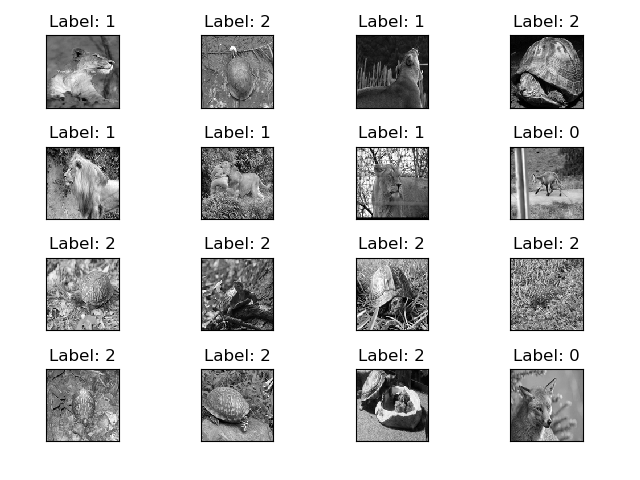
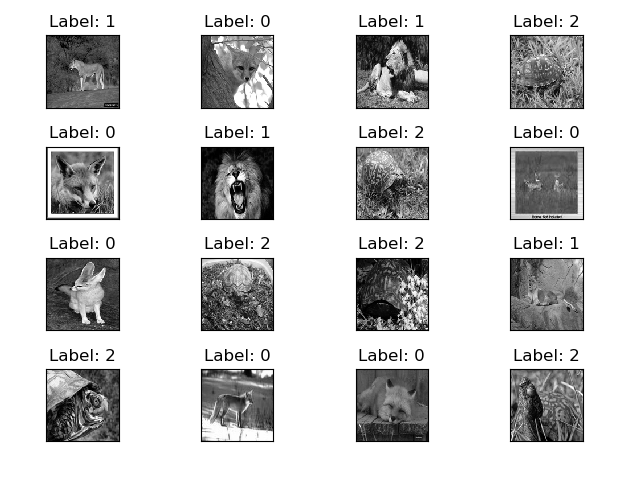
Grid search 1

diff --git a/CNNForDigits/CNNForAnimals.py b/CNNForDigits/CNNForAnimals.py
@@ -1,17 +1,25 @@
-import tensorflow as tf
-from tensorflow import keras
+#import tensorflow as tf
+#from tensorflow import keras
+from keras import layers 
+from keras import models 
+from keras import optimizers 
+
 from keras.preprocessing.image import ImageDataGenerator 
 from keras.utils import np_utils
 from keras import backend as K
+from keras.utils import to_categorical
 
 import numpy as np
 import matplotlib.pyplot as plt
-import random
+import os
 import time
+
+import gc
 
 import sys
 sys.path.append("../Common/")
 from Data import DataReader
+from Graphs import Graphs
 
 # =====================================================================
 
@@ -21,23 +29,26 @@ hidden_layers = 200
 epochs = 20
 
 def TrainModel(train_generator, validation_generator, number_of_hidden_layers, number_of_epochs):
-    model = TrainModelOptimizer(train_generator, validation_generator, number_of_hidden_layers, number_of_epochs, tf.train.AdamOptimizer())
-    return model
+    model = TrainModelOptimizer(train_generator, validation_generator, number_of_hidden_layers, number_of_epochs, optimizers.Adam(lr=1e-4))
+    return model 
 
 def TrainModelOptimizer(train_generator, validation_generator, number_of_hidden_layers, number_of_epochs, optimizer):
     
-    model = keras.Sequential([        
-        keras.layers.Conv2D(64, kernel_size = 3, activation='relu', data_format='channels_last', input_shape=(size, size, 1)),
-        keras.layers.MaxPooling2D(pool_size=(2, 2)),
-        keras.layers.Flatten(),
-        keras.layers.Dense(128, activation=tf.nn.relu),        
-        keras.layers.Dense(3, activation=tf.nn.softmax)
-    ])
+    model = models.Sequential() 
+    model.add(layers.Conv2D(number_of_hidden_layers, kernel_size = 5, activation='relu', data_format='channels_last', input_shape=(size, size, 1), padding = 'same'))
+    model.add(layers.MaxPooling2D(pool_size=(2, 2)))
+    model.add(layers.Dropout(0.2))
+    model.add(layers.Conv2D(int(number_of_hidden_layers/2), kernel_size=3, activation='relu', data_format='channels_last', input_shape=(size/2, size/2, 1), padding = 'same'))
+    model.add(layers.MaxPooling2D(pool_size=(2, 2)))
+    model.add(layers.Flatten()),#input_shape=(size/4, size/4, 1)))
+    model.add(layers.Dense(128, activation='relu'))        
+    model.add(layers.Dense(3, activation='softmax'))
         
     model.summary()
 
-    model.compile( optimizer=tf.train.RMSPropOptimizer(learning_rate=1e-4), 
-              #  optimizer=optimizer, 
+    model.compile( 
+              #optimizer=tf.train.RMSPropOptimizer(learning_rate=1e-4), 
+              optimizer=optimizer, 
               loss='sparse_categorical_crossentropy',
               metrics=['accuracy'])
 
@@ -51,93 +62,184 @@ def TrainModelOptimizer(train_generator, validation_generator, number_of_hidden_
 
     return model
 
+def plotGridResults(n_epochs, n_hiddenlayers, accuracy, filename):
+    accuracy = np.array(accuracy)
+    accuracy=accuracy.reshape(len(n_epochs), len(n_hiddenlayers))
+    fig2, ax2 = plt.subplots(figsize=(12,8))
+    c=ax2.contourf(n_epochs,n_hiddenlayers,accuracy)
+    ax2.set_xlabel('Number of epochs')
+    ax2.set_ylabel('Number of hidden layers')
+    fig2.colorbar(c)
+    fig2.savefig(filename)
+
 # =====================================================================
 
 if __name__ == '__main__':
     
-    sess = tf.Session(config=tf.ConfigProto(log_device_placement=True))
+    loadData = True
+    trainSingleNetwork = False
+    testMultipleParams1 = False
+    testMultipleParams2 = True
+    plotResults = False
 
-    label_dict = {
-        0: 'Lion',
-        1: 'Fox',
-        2: 'Tortoise'
-    }
+    #sess = tf.Session(config=tf.ConfigProto(log_device_placement=True))
 
-    dataLion = DataReader.readImages('../../Data/n02118333/', 0, size, True)
-    dataFox = DataReader.readImages('../../Data/n02129165/', 1, size, True)
-    dataTortoise = DataReader.readImages('../../Data/n01669191/', 2, size, True)
+    if loadData:
+        label_dict = {
+            0: 'Lion',
+            1: 'Fox',
+            2: 'Tortoise'
+        }
 
-    # Keep first 1200
-    dataLion = dataLion[:1200]
-    dataFox = dataFox[:1200]
-    dataTortoise = dataTortoise[:1200]
+        dataLion = DataReader.readImages('../../Data/n02118333/', 0, size, True)
+        dataFox = DataReader.readImages('../../Data/n02129165/', 1, size, True)
+        dataTortoise = DataReader.readImages('../../Data/n01669191/', 2, size, True)
 
-    dataset = np.concatenate([dataLion, dataFox, dataTortoise])
-    np.random.shuffle(dataset)
+        # Keep first 1200
+        dataLion = dataLion[:1200]
+        dataFox = dataFox[:1200]
+        dataTortoise = dataTortoise[:1200]
 
-    train_x = list()
-    train_y = list()
+        dataset = np.concatenate([dataLion, dataFox, dataTortoise])
+        np.random.shuffle(dataset)
+
+        train_x = list()
+        train_y = list()
     
-    # split into x and y
-    for (x, y) in dataset:
-        train_x.append(x)
-        train_y.append(y)
+        # split into x and y
+        for (x, y) in dataset:
+            train_x.append(x)
+            train_y.append(y)
 
-    train_x = np.asarray(train_x)
-    train_y = np.asarray(train_y)
-    print("Successfully loaded data")
+        train_x = np.asarray(train_x)
+        train_y = np.asarray(train_y)
+        print("Successfully loaded data")
 
-    # split data into test train validation
-    X_train = train_x[:2520]
-    y_train = train_y[:2520]
-    X_valid = train_x[2520:3240:]
-    y_valid = train_y[2520:3240:]
-    X_test = train_x[3240:]
-    y_test = train_y[3240:]
+        # split data into test train validation
+        X_train = train_x[:2880]
+        y_train = train_y[:2880]
+        X_valid = train_x[2880:3240:]
+        y_valid = train_y[2880:3240:]
+        X_test = train_x[3240:]
+        y_test = train_y[3240:]
     
-    plt.figure()
-    plt.imshow(X_train[0])
-    plt.colorbar()
-    plt.grid(False)
-    plt.savefig('firstimageAnimal.png')
+        plt.figure()
+        plt.imshow(X_train[0])
+        plt.colorbar()
+        plt.grid(False)
+        plt.savefig('firstimageAnimal.png')
     
-    fig = plt.figure()
-    for i in range(16):
-        plt.subplot(4,4,i+1)
-        plt.tight_layout()
-        plt.imshow(X_train[i], cmap='gray', interpolation='none')
-        plt.title("Label: {}".format(y_train[i]))
-        plt.xticks([])
-        plt.yticks([])
-    fig
-    plt.savefig('exampleAnimalImages.png')
+        fig = plt.figure()
+        for i in range(16):
+            plt.subplot(4,4,i+1)
+            plt.tight_layout()
+            plt.imshow(X_train[i], cmap='gray', interpolation='none')
+            plt.title("Label: {}".format(y_train[i]))
+            plt.xticks([])
+            plt.yticks([])
+        fig
+        plt.savefig('exampleAnimalImages.png')
 
-    # reshape into rank 4
-    X_train = X_train.reshape(2520, size, size, 1)
-    X_valid = X_valid.reshape(720, size, size, 1)
-    X_test = X_test.reshape(360, size, size, 1)
+        # reshape into rank 4
+        X_train = X_train.reshape(2880, size, size, 1)
+        X_valid = X_valid.reshape(360, size, size, 1)
+        X_test = X_test.reshape(360, size, size, 1)
 
-    # create ImageDataGenerator to augment images
-    train_datagen = ImageDataGenerator(rescale=1./255,
-                                        rotation_range=40, 
-                                        width_shift_range=0.2, 
-                                        height_shift_range=0.2, 
-                                        shear_range=0.2, 
-                                        zoom_range=0.2, 
-                                        horizontal_flip=True, 
-                                        fill_mode='nearest',
-                                        data_format = "channels_last") 
+        #one-hot encode target column
+        #y_train = to_categorical(y_train)
+        #y_valid = to_categorical(y_valid)
+        #y_test = to_categorical(y_test)
 
-    validation_datagen = ImageDataGenerator(rescale=1./255) 
-    test_datagen = ImageDataGenerator(rescale=1./255) 
+        # create ImageDataGenerator to augment images    
+        train_datagen = ImageDataGenerator(rescale=1./255,
+                                            rotation_range=40, 
+                                            width_shift_range=0.2, 
+                                            height_shift_range=0.2, 
+                                            shear_range=0.2, 
+                                            zoom_range=0.2, 
+                                            horizontal_flip=True, 
+                                            fill_mode='nearest',
+                                            data_format = "channels_last") 
+
+        validation_datagen = ImageDataGenerator(rescale=1./255) 
+        test_datagen = ImageDataGenerator(rescale=1./255) 
     
-    # connect ImageDataGenerator and 
-    train_generator = train_datagen.flow(X_train, y_train, batch_size=batch_size, shuffle=True, sample_weight=None, seed=None, save_to_dir=None, save_prefix='', save_format='png', subset=None)
-    validation_generator = validation_datagen.flow(X_valid, y_valid, batch_size=batch_size, shuffle=True, sample_weight=None, seed=None, save_to_dir=None, save_prefix='', save_format='png', subset=None)
-    test_generator = test_datagen.flow(X_test, y_test, batch_size=batch_size, shuffle=True, sample_weight=None, seed=None, save_to_dir=None, save_prefix='', save_format='png', subset=None)
+        # connect ImageDataGenerator and 
+        train_generator = train_datagen.flow(X_train, y_train, batch_size=batch_size, shuffle=True, sample_weight=None, seed=None, save_to_dir=None, save_prefix='', save_format='png', subset=None)
+        validation_generator = validation_datagen.flow(X_valid, y_valid, batch_size=batch_size, shuffle=True, sample_weight=None, seed=None, save_to_dir=None, save_prefix='', save_format='png', subset=None)
+        test_generator = test_datagen.flow(X_test, y_test, batch_size=batch_size, shuffle=True, sample_weight=None, seed=None, save_to_dir=None, save_prefix='', save_format='png', subset=None)
 
-    model = TrainModel(train_generator, validation_generator, hidden_layers, epochs)
+    if trainSingleNetwork:
+        model = TrainModel(train_generator, validation_generator, 20, 5)
+        results = model.evaluate_generator(test_generator, steps=1000)  
+        print('Final test loss:', (results[0]*100.0))
+        print('Final test accuracy:', (results[1]*100.0))
 
-    results = model.evaluate_generator(test_generator, steps=1000)  
+        fileName = "./models/model_%ilayers_%iepochs.h5" % (hidden_layers, epochs)
+        
+        exists = os.path.isfile(fileName)
+        if exists:
+            os.remove(fileName)
+        
+        model.save(fileName) 
+    
+    if testMultipleParams1:
+
+        # grid search for a suitable parameter for the hidden layers and epochs
+        number_of_hidden_layers = np.array([10, 20, 30, 40, 50, 100, 150, 200])
+        number_of_epochs = np.array([30]) #, 1, 2, 3, 4, 5, 10, 20])
+
+        losses = list()
+        accuracies = list()
+        timings  = list()
+
+        text_file = open("Output_Animals.txt", "a") #"w")
+
+        # for the text file - print number of layers first - as we are making a table
+        #text_file.write('Number of hidden layers: ')
+        #for j in number_of_hidden_layers:
+            #text_file.write('%iTiming(s) Loss Accuracy ' % j)
+                    
+        for i in number_of_epochs:        
+            text_file.write('\nNumber of epochs:%i ' % i)
+
+            for j in number_of_hidden_layers:
+                print('Number of epochs:', i) 
+                print('Number of hidden layers:', j)           
+
+                # time training 
+                time1 = time.time()
+                model = TrainModel(train_generator, validation_generator, j, i)
+                time2 = time.time()
+                time_span = time2-time1
+                timings.append(time_span)
+                print('Training the model took: %s seconds' % time_span)
+                text_file.write("%.3f " % time_span)
+
+                # check accuracy
+                results = model.evaluate_generator(test_generator, steps=100) 
+                test_loss = results[0] * 100
+                test_acc = results[1] * 100
+                losses.append(test_loss)
+                text_file.write("%.3f " % test_loss)
+                accuracies.append(test_acc)
+                text_file.write("%.3f " % test_acc)
+
+                print('Test accuracy:', test_acc)
+                fileName = "./models/model_%ilayers_%iepochs.h5" % (j, i)
+        
+                exists = os.path.isfile(fileName)
+                if exists:
+                    os.remove(fileName)
+        
+                model.save(fileName) 
+                gc.collect()
+                    
+        text_file.close()
+
+        #plotGridResults (number_of_epochs, number_of_hidden_layers, accuracies, 'GridSearch_animals.png')
+
+        #plotGridResults (number_of_epochs, number_of_hidden_layers, timings, 'GridSearch__animals_timings.png')
  
-   
+    if plotResults:
+        Graphs.plotGridResults ('Number of hidden layers', 'Number of epochs', '../CNNForDigits/Output_Animals1.csv', 'accuracy')

diff --git a/Common/Graphs.py b/Common/Graphs.py
@@ -1,0 +1,46 @@
+import matplotlib.pyplot as plt
+import numpy as np
+import os
+import csv
+
+class Graphs():
+
+   def plotGridResults(axis1Name, axis2Name, fileLocation, metric):
+
+       firstAxis = list()
+       secondAxis = list()
+       metricData = list()
+       
+       with open(fileLocation) as csv_file:
+            csv_reader = csv.reader(csv_file)
+            line_count = 0
+            for row in csv_reader:
+                if line_count == 0:
+                    for countn in range (len(row)):
+                        if (countn - 1) % 3 == 0:
+                            words = row[countn].split('_')
+                            firstAxis.append(int(words[0]))
+
+                    line_count += 1
+                else:
+                    for countn in range (len(row)):
+                        if (countn == 0):
+                           secondAxis.append(int(row[countn])) 
+                        elif (metric == 'accuracy'):
+                            if (countn - 3) % 3 == 0 and countn != 0:
+                                metricData.append(float(row[countn]))
+                        elif (metric == 'timing'):
+                            if (countn - 1) % 3 == 0:
+                                metricData.append(float(row[countn]))
+                    
+                    line_count += 1
+       print('Finished reading metric data from csv. Building graph..')
+
+       metricData = np.array(metricData)
+       metricData=metricData.reshape(len(firstAxis), len(secondAxis))
+       fig2, ax2 = plt.subplots(figsize=(12,8))
+       c=ax2.contourf(firstAxis,secondAxis,metricData)
+       ax2.set_xlabel(axis1Name)
+       ax2.set_ylabel(axis2Name)
+       fig2.colorbar(c)
+       fig2.savefig('%s.png' % metric)

diff --git a/Common/Data.py b/Common/Data.py
@@ -18,14 +18,14 @@ class DataReader():
             
             np_img = np.array(img)
             
-            if np_img.shape[0] < min_size_image: 
-                min_size_image = np_img.shape[0]
+            #if np_img.shape[0] < min_size_image: 
+            #    min_size_image = np_img.shape[0]
             
-            if np_img.shape[1] < min_size_image: 
-                min_size_image = np_img.shape[1]
+            #if np_img.shape[1] < min_size_image: 
+            #    min_size_image = np_img.shape[1]
 
             data.append((np_img, label))
         
-        print ("Min image dimension size: %i" % min_size_image)
+        #print ("Min image dimension size: %i" % min_size_image)
         np_data = np.asarray(data)
         return np_data
